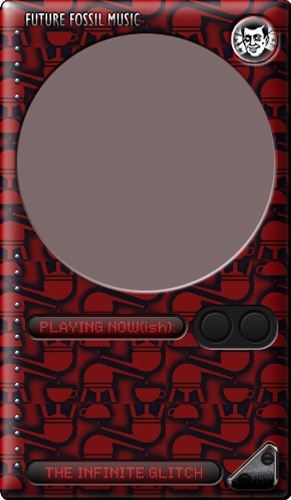
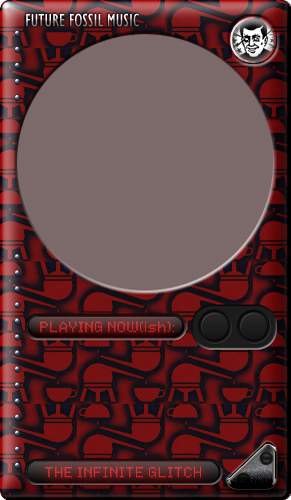
Keith updates.

diff --git a/assets/style.scss b/assets/style.scss
@@ -137,7 +137,7 @@ body {
 	
 	
 	.errors {
-		color: red;
+		color: #8A0C40;
 		}
 		
 	.left-player {
@@ -150,10 +150,10 @@ body {
 		-webkit-border-radius: 12px;
 		-khtml-border-radius: 12px;
 		border-radius: 12px;
-		/*+box-shadow: 3px 4px 6px #514949 !important;*/
-		-moz-box-shadow: 3px 4px 6px #514949 !important;
-		-webkit-box-shadow: 3px 4px 6px #514949 !important;
-		box-shadow: 3px 4px 6px #514949 !important;
+		/*+box-shadow: 3px 4px 6px #272626 !important;*/
+		-moz-box-shadow: 3px 4px 6px #272626 !important;
+		-webkit-box-shadow: 3px 4px 6px #272626 !important;
+		box-shadow: 3px 4px 6px #272626 !important;
 	}
 	#trackdetails {
 		display: inline-block;
@@ -245,10 +245,10 @@ body {
 		width: 620px;
 		height: 168px;
 		background: url(/static/img/glitchlogo.jpg) no-repeat;
-		/*+box-shadow: 3px 4px 6px #514949 !important;*/
-		-moz-box-shadow: 3px 4px 6px #514949 !important;
-		-webkit-box-shadow: 3px 4px 6px #514949 !important;
-		box-shadow: 3px 4px 6px #514949 !important;
+		/*+box-shadow: 3px 4px 6px #272626 !important;*/
+		-moz-box-shadow: 3px 4px 6px #272626 !important;
+		-webkit-box-shadow: 3px 4px 6px #272626 !important;
+		box-shadow: 3px 4px 6px #272626 !important;
 		background-color: #B06E6C;
 		/*+border-radius: 12px;*/
 		-moz-border-radius: 12px;
@@ -325,10 +325,10 @@ body {
 		-khtml-border-radius: 12px;
 		border-radius: 12px;
 		border: 4px double #771011;
-		/*+box-shadow: 3px 4px 6px #514949;*/
-		-moz-box-shadow: 3px 4px 6px #514949;
-		-webkit-box-shadow: 3px 4px 6px #514949;
-		box-shadow: 3px 4px 6px #514949;
+		/*+box-shadow: 3px 4px 6px #272626;*/
+		-moz-box-shadow: 3px 4px 6px #272626;
+		-webkit-box-shadow: 3px 4px 6px #272626;
+		box-shadow: 3px 4px 6px #272626;
 		color: #C0C0C0;
 		margin: 0 0 10px 0;
 		z-index:1;

diff --git a/templates/oracle.html b/templates/oracle.html
@@ -3,7 +3,10 @@
 {% from tornado.escape import url_escape %}
 
 {% block content %}
-
+<!-- added 14 march -->
+<link rel="prefetch" href="static/img/oracle-off.png" border="0" width="107" height="104" alt="">
+<link rel="prefetch" href="static/img/oracle-hover.png" border="0" width="107" height="104" alt="">
+<link rel="prefetch" href="static/img/oracle-on.png" border="0" width="107" height="104" alt=""><!-- end -->
 	<div id="glitch-ball-title">
 		<p></p><h2><img class="glitch_title" src="static/img/glitch-ball-title.png" border="0" width="204" height="159" alt=""></h2><p></p>
 			<p class="floatRight"><b><font size="-1"><b>For entertainment purposes only.</b>  <br>This website and its creators are not responsible for any damages incurred by actions taken based 				on playing this game.</font></p>

diff --git a/templates/recorder.html b/templates/recorder.html
@@ -53,9 +53,10 @@
 			<ul class="grid">
 				<li class="wide">		
 					<div class="secondary-two">	
-  <h2>Glitch Recording Studio</h2>
+   <img src="static/img/studio-title.png" border="0" width="266" height="195" alt="">
+
 	<p>Due to the magic of modern technology......</p>
-  <div class="errors">(This will only work in Chrome (version 3.2+) and recent versions of Firefox)</div>
+  <div class="errors">(This will only work in Chrome (version 3.2+, recent versions of Firefox) and Opera 28.0)</div><br>
   <button  class="btn btn-default" onclick="startRecording(this);">Record</button>
   <button   class="btn btn-default"  onclick="stopRecording(this);" disabled>Stop</button>
   
